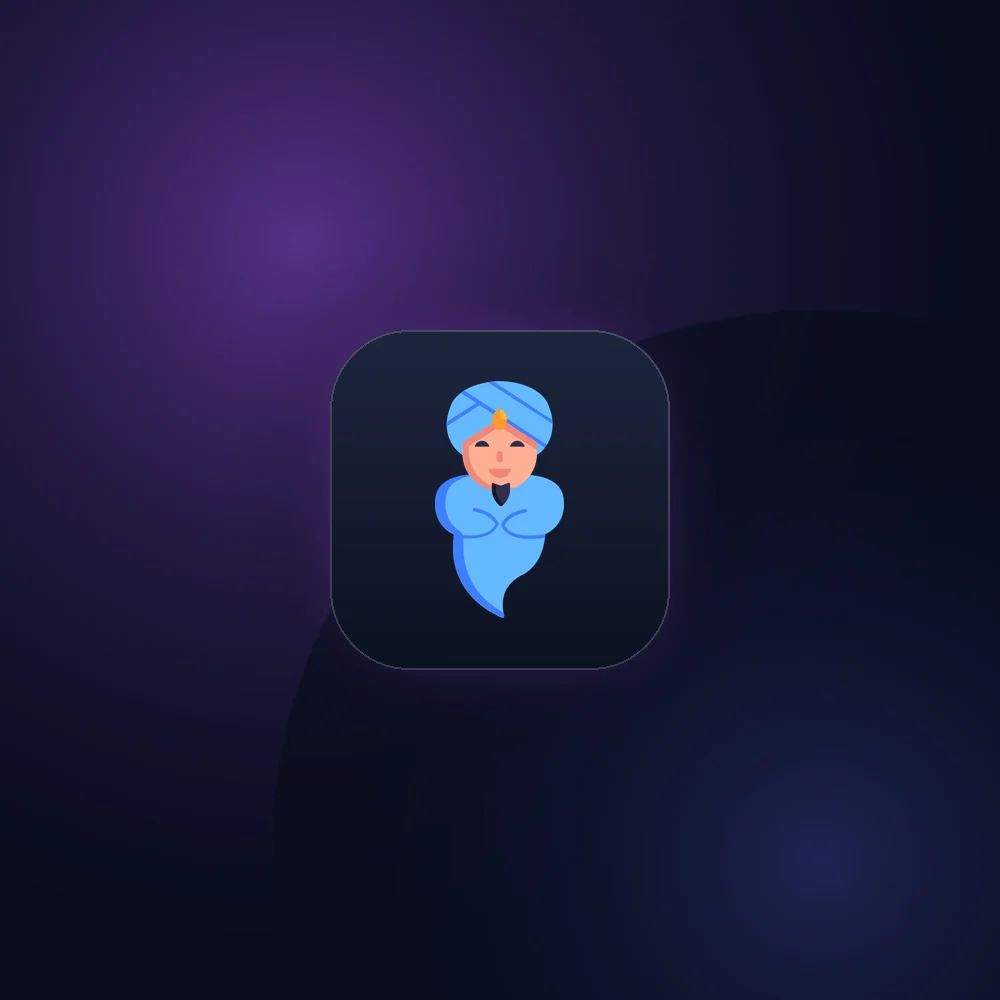
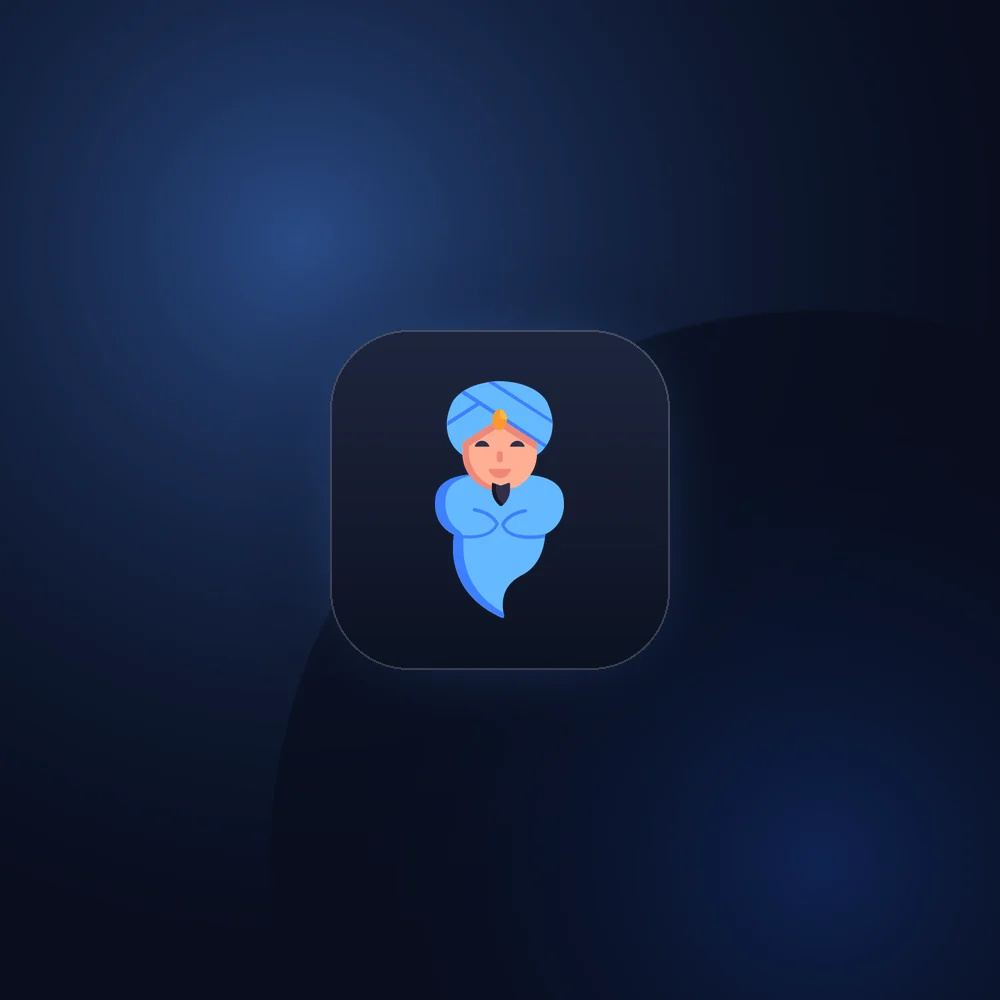
fix(ui): full-bleed nav bar, plain nav links, taller cards, blue covers
Five things, all visible in a screenshot and none of them findable by
measuring the DOM in isolation.

The nav bar's frosted panel, border and shadow were on <header>, which is
max-w-5xl — so on any window wider than 1024px the bar was a rectangle
floating in the middle of the screen with hard vertical edges and a bottom
rule that stopped a couple of hundred pixels short of each side. They belong
on the full-width wrapper. `.header` also had to move from absolute to
relative, or the wrapper would have collapsed to a 1px line with nothing
behind it.

The nav items were four bordered, filled, drop-shadowed pills, and the logo
was a fifth. That reads as a toolbar — navigation announcing itself as the
most important thing on the page. They are plain links now, with the current
page in white and a rule that draws in on hover.

The three service cards' dividers and proof points sat at three different
heights. Cause: GlassCard wraps its children in a positioning div, so a card
marked `flex flex-col` is not the flex parent of anything the caller wrote and
`flex-1` silently did nothing. The wrapper is now a flex passthrough when the
card is a flex column. Measured: all three proof rows now land at the same y.

Stacked project cards were 1024x378 — nearly 3:1, which is a banner rather
than a card. Now 1024x450.

And the covers were still six different hues after the palette pass, because
that sweep only touched CSS classes. Stacked, they read as a rainbow — the
[…]

Changed region(s): [[0.093, 0.031, 0.558, 0.496]]

diff --git a/src/Components/Navbar.jsx b/src/Components/Navbar.jsx
@@ -4,43 +4,40 @@ import { useState, useEffect, useRef, useCallback } from 'react'
 import PropTypes from 'prop-types'
 
 const navItems = [
-  { to: '/about', label: 'About', gradient: 'from-blue-600/0 via-blue-600/20 to-blue-600/0' },
-  { to: '/projects', label: 'Projects', gradient: 'from-blue-600/0 via-blue-600/20 to-blue-600/0' },
-  { to: '/playground', label: 'Playground', gradient: 'from-blue-600/0 via-blue-600/20 to-blue-600/0' },
-  { to: '/contact', label: 'Contact', gradient: 'from-blue-600/0 via-blue-600/20 to-blue-600/0' }
+  { to: '/about', label: 'About' },
+  { to: '/projects', label: 'Projects' },
+  { to: '/playground', label: 'Playground' },
+  { to: '/contact', label: 'Contact' }
 ]
 
 // Declared at module scope, not inside Navbar. Defining a component inside
 // another component gives it a new type on every render, so React unmounts and
 // remounts the whole nav on each state change — which restarts animations and,
 // critically here, throws away keyboard focus and breaks the focus trap.
-const NavItem = ({ to, label, gradient, onClick }) => (
-  // tabIndex={-1}: framer-motion makes a motion.div focusable once it has tap
-  // handlers, which put a second, role-less tab stop in front of every link.
-  // The anchor inside is the real control, so the wrapper is taken out of the
-  // tab order.
-  <motion.div whileHover={{ scale: 1.05 }} whileTap={{ scale: 0.95 }} tabIndex={-1}>
-    <NavLink
-      to={to}
-      onClick={onClick}
-      className={({ isActive }) => `
-        px-4 py-3 md:py-2 rounded-lg backdrop-blur-sm border border-transparent transition-all duration-300 relative overflow-hidden group block text-center md:text-left
-        ${isActive
-          ? 'text-blue-400 bg-blue-500/20 border-blue-400/30 shadow-lg shadow-blue-500/25'
-          : 'text-white hover:text-blue-300 hover:bg-white/10 hover:border-white/20 hover:shadow-lg hover:shadow-white/10'
-        }
-      `}
-    >
-      <span className="relative z-10">{label}</span>
-      <div className={`absolute inset-0 bg-gradient-to-r ${gradient} opacity-0 group-hover:opacity-100 transition-opacity duration-300`} />
-    </NavLink>
-  </motion.div>
+// Plain links, not buttons. Four bordered, filled, drop-shadowed pills in a row
+// read as a toolbar — they compete with each other and with the page, and they
+// make navigation look like the most important thing on screen. A nav is a
+// signpost. Text, with the current page marked, and a rule that draws in on
+// hover: the affordance without the furniture.
+const NavItem = ({ to, label, onClick }) => (
+  <NavLink
+    to={to}
+    onClick={onClick}
+    className={({ isActive }) => `
+      relative py-2 block text-center md:text-left transition-colors duration-200
+      ${isActive ? 'text-white' : 'text-white/60 hover:text-white'}
+      after:absolute after:left-0 after:right-0 after:-bottom-0.5 after:h-px
+      after:bg-blue-400 after:origin-left after:transition-transform after:duration-300
+      ${isActive ? 'after:scale-x-100' : 'after:scale-x-0 hover:after:scale-x-100'}
+    `}
+  >
+    {label}
+  </NavLink>
 )
 
 NavItem.propTypes = {
   to: PropTypes.string.isRequired,
   label: PropTypes.string.isRequired,
-  gradient: PropTypes.string.isRequired,
   onClick: PropTypes.func
 }
 
@@ -146,9 +143,15 @@ const Navbar = () => {
       initial={{ y: -100, opacity: 0 }}
       animate={{ y: 0, opacity: 1 }}
       transition={{ duration: 0.8, ease: "easeOut" }}
-      className="fixed top-0 left-0 right-0 z-50"
+      // The frosted panel, the border and the shadow belong on this full-width
+      // wrapper, not on <header>. `.header` is max-w-5xl, so putting them there
+      // painted a 1024px bar floating in the middle of a wider window — hard
+      // vertical edges, and a bottom rule that stopped a couple of hundred
+      // pixels short of each side. The bar now spans the viewport; the content
+      // inside it stays constrained.
+      className="fixed top-0 left-0 right-0 z-50 backdrop-blur-lg bg-white/5 border-b border-white/10 shadow-lg shadow-black/20"
     >
-      <header className="header backdrop-blur-lg bg-white/5 border-b border-white/10 shadow-lg shadow-black/20">
+      <header className="header">
         {/* Logo */}
         {/* tabIndex={-1} for the same reason as NavItem above: the tap handlers
             make this wrapper focusable, so the logo was costing two tab stops
@@ -158,11 +161,15 @@ const Navbar = () => {
           whileTap={{ scale: 0.95 }}
           tabIndex={-1}
         >
-          <NavLink 
-            to="/" 
-            className="w-12 h-12 rounded-xl bg-gradient-to-br from-white/20 to-white/10 backdrop-blur-md border border-white/20 items-center justify-center flex font-bold shadow-lg hover:shadow-blue-500/25 transition-all duration-300 hover:border-blue-400/50 group" 
+          {/* The wordmark, not a boxed tile. A bordered, shadowed, gradient-
+              filled square is a lot of chrome around three letters, and it
+              matched the four pills it sat next to — the whole bar read as
+              buttons. */}
+          <NavLink
+            to="/"
+            className="text-lg font-bold tracking-tight text-white hover:text-blue-300 transition-colors duration-200"
           >
-            <p className="text-lg text-white">YSN</p>
+            YSN
           </NavLink>
         </motion.div>
 

diff --git a/src/index.css b/src/index.css
@@ -263,7 +263,11 @@ body:has(.card[data-color="green"]:hover) {
   }
 
   .header {
-    @apply flex justify-between items-center px-4 sm:px-8 md:px-16 py-4 max-w-5xl mx-auto absolute top-0 bg-transparent z-10 right-0 left-0;
+    /* `relative`, not `absolute`. The nav bar's frosted panel now lives on the
+       full-width wrapper around this element, and an absolutely positioned
+       child contributes no height — so the bar would have collapsed to a
+       1px rule with nothing behind it. */
+    @apply flex justify-between items-center px-4 sm:px-8 md:px-16 py-4 max-w-5xl mx-auto relative bg-transparent z-10;
   }
 
   .footer {
@@ -611,7 +615,9 @@ body:has(.card[data-color="green"]:hover) {
      result was the last row of the card — the "Read case study" / "Code" links
      — sliced in half. The px floor means a short viewport gets a card that
      extends past the fold rather than a card that eats its own content. */
-  --card-height: clamp(19.5rem, 42vh, 26rem);
+  /* Taller. At 42vh the cards read as letterbox strips — 1024 wide against
+     roughly 380 tall is nearly 3:1, which is a banner, not a card. */
+  --card-height: clamp(23rem, 50vh, 31rem);
   --card-top-offset: 1.25em;
   --stack-gap: 1.75rem;
   /* Cards pin below the fixed navbar (81px) rather than at viewport 0, where
@@ -938,4 +944,55 @@ body:has(.card[data-color="green"]:hover) {
    flash one when the skip link sends focus into it. */
 #main-content:focus {
   outline: none;
+}
+
+/* ---------------------------------------------------------------------------
+   Terminal prompt
+
+   The global :focus-visible ring is right almost everywhere and wrong here.
+   This input auto-focuses on mount, so the ring appeared unprompted, and a
+   rounded blue outline around a shell caret undoes the illusion the whole
+   component is built on.
+
+   The indicator moves to the prompt row: the prompt brightens and a caret bar
+   appears. That is what a terminal has always used to say "you're typing
+   here", so nothing is lost — least of all for keyboard users, who get a
+   clearer signal than a box drawn around an invisible input.
+--------------------------------------------------------------------------- */
+.terminal-input:focus-visible,
+.terminal-input:focus {
+  outline: none;
+  box-shadow: none;
+}
+
+.terminal-prompt {
+  border-left: 2px solid transparent;
+  padding-left: 0.5rem;
+  margin-left: -0.5rem;
+  transition: border-color var(--dur-base) var(--ease-out);
+}
+
+/* :focus-within, so the row lights up whenever the caret is in the input —
+   including the mount-time focus, where it reads as "ready" rather than as a
+   stray outline. */
+.terminal-prompt:focus-within {
+  border-left-color: rgb(74 222 128);
+}
+
+/* ---------------------------------------------------------------------------
+   Glass card content passthrough
+
+   GlassCard wraps whatever you give it in a positioning div. That div sits
+   between the card and its children, so a card marked `flex flex-col` is not
+   the flex parent of anything the caller wrote — `flex-1`, `mt-auto` and
+   friends silently do nothing.
+
+   When the card is a flex column, the wrapper becomes one too and stretches to
+   fill. Callers can then use flex the way the markup implies.
+--------------------------------------------------------------------------- */
+.glass-card.flex.flex-col > .glass-card__content {
+  display: flex;
+  flex-direction: column;
+  flex: 1;
+  min-height: 0;
 }

diff --git a/src/Components/InteractiveTerminal.jsx b/src/Components/InteractiveTerminal.jsx
@@ -334,8 +334,15 @@ const InteractiveTerminal = () => {
           ))}
         </AnimatePresence>
 
-        {/* Current Input Line */}
-        <div className="flex items-center text-green-400">
+        {/* Current Input Line.
+            `terminal-prompt` carries the focus indicator instead of the input.
+            The global focus ring drew a rounded blue box around the caret,
+            which is wrong twice over here: the terminal auto-focuses on mount,
+            so it appeared without anyone asking, and a rounded outline inside a
+            terminal breaks the one illusion the component exists to create. A
+            block caret and a lit prompt are what a terminal uses to say
+            "you're typing here", and they say it just as clearly. */}
+        <div className="terminal-prompt flex items-center text-green-400">
           <span className="mr-2">visitor@yuvraj-portfolio:~$</span>
           <input
             ref={inputRef}
@@ -343,7 +350,8 @@ const InteractiveTerminal = () => {
             value={input}
             onChange={(e) => setInput(e.target.value)}
             onKeyDown={handleKeyPress}
-            className="flex-1 bg-transparent outline-none text-green-400 caret-green-400"
+            aria-label="Terminal command input"
+            className="terminal-input flex-1 bg-transparent outline-none text-green-400 caret-green-400"
             autoComplete="off"
             spellCheck="false"
           />

diff --git a/src/Components/GlassCard.jsx b/src/Components/GlassCard.jsx
@@ -78,7 +78,12 @@ const GlassCard = ({
     >
       {glareEffect && !reduce && <div className="glass-card__glare" aria-hidden="true" />}
 
-      <div className="relative z-20">{children}</div>
+      {/* Named, so index.css can make this wrapper a flex passthrough when the
+          card itself is a flex column. Without that, `flex-1` on a child does
+          nothing — it is separated from the flex container by this div — which
+          is why the three service cards' dividers and proof points sat at three
+          different heights instead of aligning across the row. */}
+      <div className="glass-card__content relative z-20">{children}</div>
 
       <div className="glass-card__edge" aria-hidden="true" />
     </div>

diff --git a/scripts/make-covers.py b/scripts/make-covers.py
@@ -21,13 +21,17 @@ SIZE = 1000
 BASE = (9, 14, 30)          # matches the site background family
 
 # accent per project, pulled from the `gradient` field already in constants
+# Accents are all blue now, varied by value rather than hue. Six covers in six
+# different colours were the loudest thing left on a site whose accent is a
+# single blue — and stacked, they read as a rainbow. Value still tells them
+# apart; the marks themselves carry whatever colour each project has.
 PROJECTS = [
-    ("realtime-code-editor", "realtimeCodeEditorIcon.png", (59, 130, 246), (6, 182, 212)),
-    ("file-sharing",         "fileSharingAppIcon.jpeg",    (34, 197, 94),  (16, 185, 129)),
-    ("moneyzold",            "moneyzoldIcon.jpeg",         (234, 179, 8),  (249, 115, 22)),
-    ("care-car-rental",      "careCarRentalIcon.jpg",      (239, 68, 68),  (236, 72, 153)),
-    ("docker-node",          "dockerNodeAppIcon.png",      (56, 132, 255), (13, 148, 176)),
-    ("code-genie",           "codeGenieIcon.png",          (168, 85, 247), (99, 102, 241)),
+    ("realtime-code-editor", "realtimeCodeEditorIcon.png", (59, 130, 246), (37, 99, 235)),
+    ("file-sharing",         "fileSharingAppIcon.jpeg",    (37, 99, 235),  (29, 78, 216)),
+    ("moneyzold",            "moneyzoldIcon.jpeg",         (96, 165, 250), (59, 130, 246)),
+    ("care-car-rental",      "careCarRentalIcon.jpg",      (29, 78, 216),  (30, 58, 138)),
+    ("docker-node",          "dockerNodeAppIcon.png",      (56, 132, 255), (37, 99, 235)),
+    ("code-genie",           "codeGenieIcon.png",          (79, 140, 245), (37, 99, 235)),
 ]
 
 
